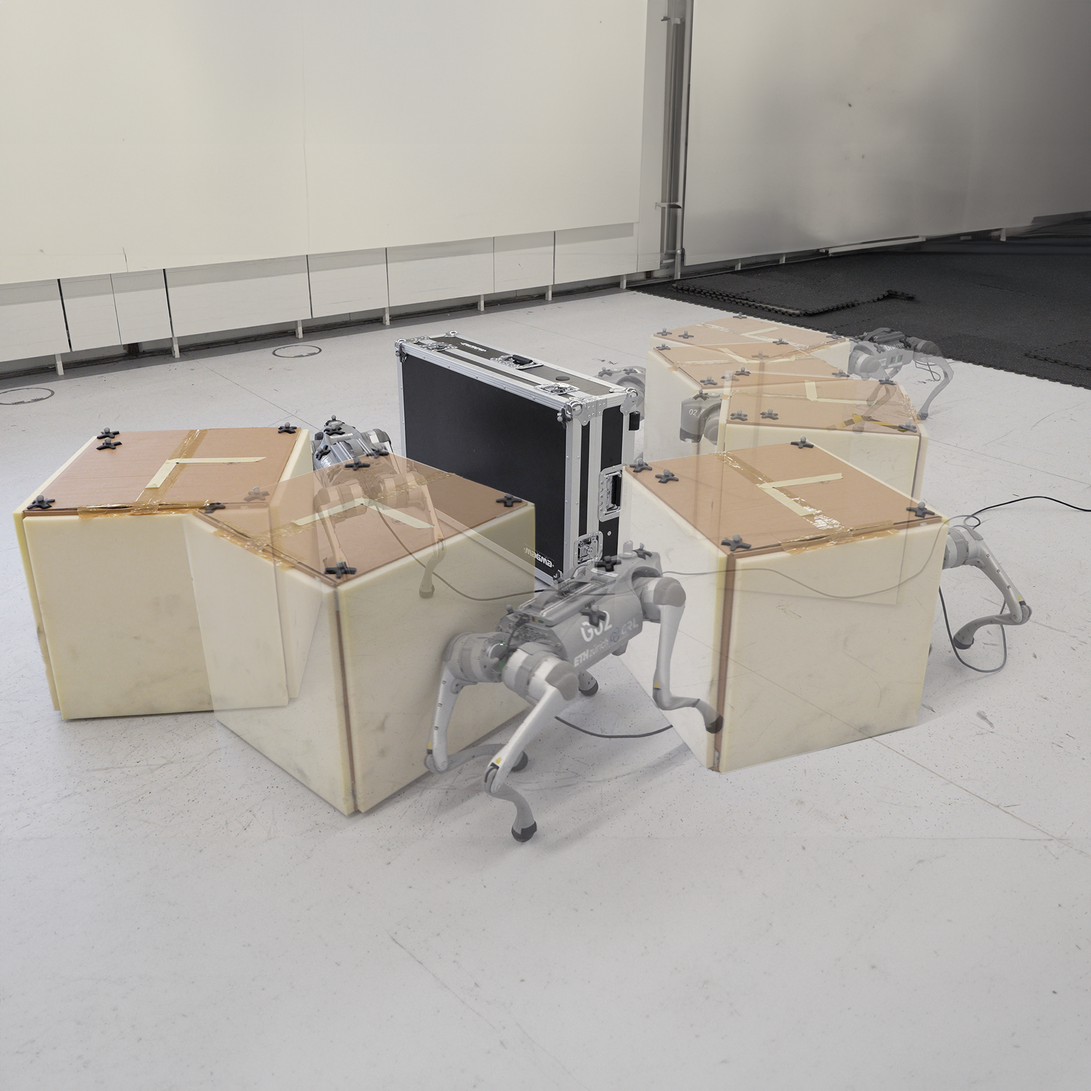
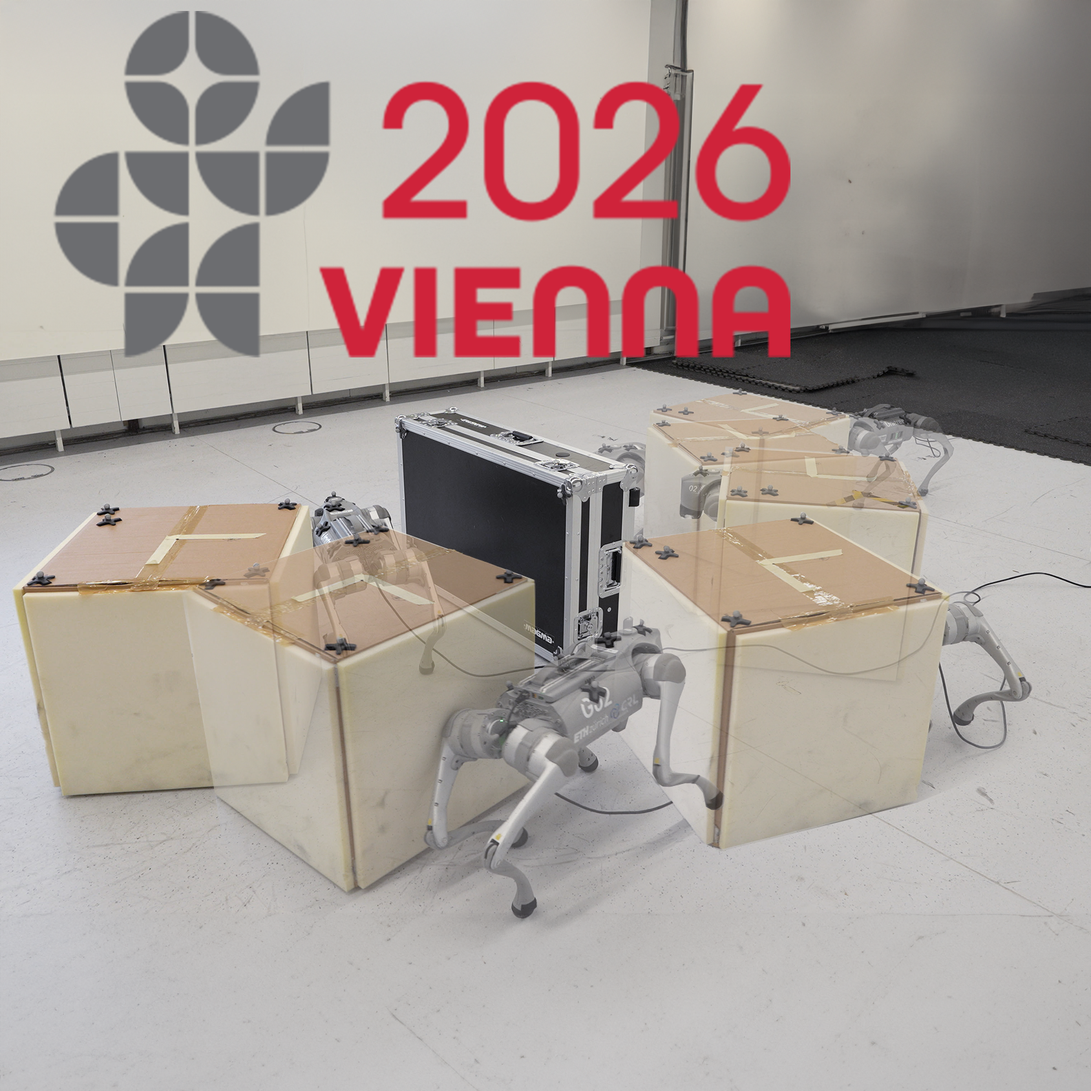
caiman got accepted to ICRA 2026!

diff --git a/_news/caiman.md b/_news/caiman.md
@@ -1,0 +1,8 @@
+---
+layout: post
+date: 2026-01-31 10:00:00-0400
+inline: true
+related_posts: false
+---
+
+📑 I am happy to share our work from [Computational Robotics Lab](http://crl.ethz.ch/), *CAIMAN: Causal Action Influence Detection for Sample Efficient Loco-Manipulation* has been accepted for publication in the Proceedings of 2026 IEEE International Conference on Robotics and Automation (ICRA 2026).
